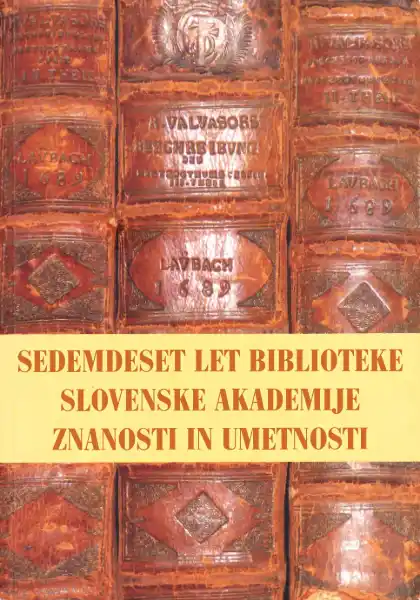
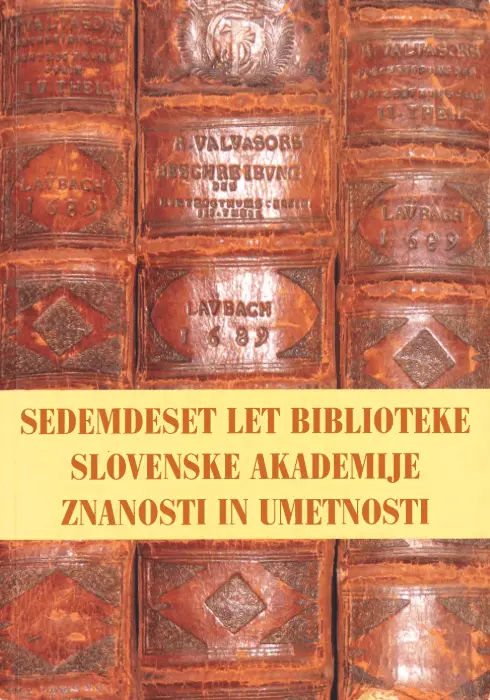
Jpg to webp - biblioteka

diff --git a/index.html b/index.html
@@ -1790,7 +1790,7 @@
                     <a href="https://dirros.openscience.si/IzpisGradiva.php?id=33147" class="book-link" target="_blank"
                         rel="noopener">
                         <div class="book-icon">
-                            <img src="images/biblioteka/biblioteka1.jpg"
+                            <img src="images/biblioteka/biblioteka1.webp"
                                 alt="Naslovnica knjige Biblioteka in publikacije SAZU 1938-1951">
                         </div>
                         <div class="book-content">
@@ -1823,7 +1823,7 @@
                     <a href="https://dirros.openscience.si/IzpisGradiva.php?id=33153" class="book-link" target="_blank"
                         rel="noopener">
                         <div class="book-icon">
-                            <img src="images/biblioteka/biblioteka2.jpg"
+                            <img src="images/biblioteka/biblioteka2.webp"
                                 alt="Naslovnica knjige Slovenska bibliografija 1945-1950">
                         </div>
                         <div class="book-content">
@@ -1855,7 +1855,7 @@
                     <a href="https://dirros.openscience.si/IzpisGradiva.php?id=33149" class="book-link" target="_blank"
                         rel="noopener">
                         <div class="book-icon">
-                            <img src="images/biblioteka/biblioteka3.jpg"
+                            <img src="images/biblioteka/biblioteka3.webp"
                                 alt="Naslovnica knjige Bibliografsko kazalo Ljubljanski zvon">
                         </div>
                         <div class="book-content">
@@ -1888,7 +1888,7 @@
                     <a href="https://dirros.openscience.si/IzpisGradiva.php?id=33154" class="book-link" target="_blank"
                         rel="noopener">
                         <div class="book-icon">
-                            <img src="images/biblioteka/biblioteka4.jpg"
+                            <img src="images/biblioteka/biblioteka4.webp"
                                 alt="Naslovnica knjige Bibliografsko kazalo Ljubljanski zvon">
                         </div>
                         <div class="book-content">
@@ -1921,7 +1921,7 @@
                     <a href="https://dirros.openscience.si/IzpisGradiva.php?id=33157" class="book-link" target="_blank"
                         rel="noopener">
                         <div class="book-icon">
-                            <img src="images/biblioteka/biblioteka6.jpg"
+                            <img src="images/biblioteka/biblioteka6.webp"
                                 alt="Naslovnica knjige Bibliografija prekmurskih tiskov">
                         </div>
                         <div class="book-content">
@@ -1954,7 +1954,7 @@
                     <a href="https://dirros.openscience.si/IzpisGradiva.php?id=33158" class="book-link" target="_blank"
                         rel="noopener">
                         <div class="book-icon">
-                            <img src="images/biblioteka/biblioteka7.jpg"
+                            <img src="images/biblioteka/biblioteka7.webp"
                                 alt="Naslovnica knjige Bibliografija publikacij SAZU 1972-1980">
                         </div>
                         <div class="book-content">
@@ -1987,7 +1987,7 @@
                     <a href="https://dirros.openscience.si/IzpisGradiva.php?id=33159" class="book-link" target="_blank"
                         rel="noopener">
                         <div class="book-icon">
-                            <img src="images/biblioteka/biblioteka8.jpg"
+                            <img src="images/biblioteka/biblioteka8.webp"
                                 alt="Naslovnica knjige Bibliografije članov, 4. razred">
                         </div>
                         <div class="book-content">
@@ -2020,7 +2020,7 @@
                     <a href="https://dirros.openscience.si/IzpisGradiva.php?id=33160" class="book-link" target="_blank"
                         rel="noopener">
                         <div class="book-icon">
-                            <img src="images/biblioteka/biblioteka9.jpg"
+                            <img src="images/biblioteka/biblioteka9.webp"
                                 alt="Naslovnica knjige Bibliografije članov, 6. razred">
                         </div>
                         <div class="book-content">
@@ -2053,7 +2053,7 @@
                     <a href="https://dirros.openscience.si/IzpisGradiva.php?id=33162" class="book-link" target="_blank"
                         rel="noopener">
                         <div class="book-icon">
-                            <img src="images/biblioteka/biblioteka11.jpg"
+                            <img src="images/biblioteka/biblioteka11.webp"
                                 alt="Naslovnica knjige Bibliografije članov, III. razred">
                         </div>
                         <div class="book-content">
@@ -2087,7 +2087,7 @@
                     <a href="https://dirros.openscience.si/IzpisGradiva.php?id=33163" class="book-link" target="_blank"
                         rel="noopener">
                         <div class="book-icon">
-                            <img src="images/biblioteka/biblioteka12.jpg"
+                            <img src="images/biblioteka/biblioteka12.webp"
                                 alt="Naslovnica knjige Bibliografija publikacij SAZU in ZRC 1981-1990">
                         </div>
                         <div class="book-content">
@@ -2119,7 +2119,7 @@
                     <a href="https://omp.sazu.si/library/catalog/book/41" class="book-link" target="_blank"
                         rel="noopener">
                         <div class="book-icon">
-                            <img src="images/Splosno/limits.webp" alt="Naslovnica knjige Limits of Growth">
+                            <img src="images/Splosno/limits.jpg" alt="Naslovnica knjige Limits of Growth">
                         </div>
                         <div class="book-content">
                             <p class="book-series">
@@ -2149,7 +2149,7 @@
                     <a href="https://omp.sazu.si/library/catalog/book/33" class="book-link" target="_blank"
                         rel="noopener">
                         <div class="book-icon">
-                            <img src="images/biblioteka/biblioteka15.jpg"
+                            <img src="images/biblioteka/biblioteka15.webp"
                                 alt="Naslovnica knjige Ljubljana kot novi Rim">
                         </div>
                         <div class="book-content">
@@ -2183,7 +2183,7 @@
                     <a href="https://omp.sazu.si/library/catalog/book/39" class="book-link" target="_blank"
                         rel="noopener">
                         <div class="book-icon">
-                            <img src="images/biblioteka/biblioteka16.jpg"
+                            <img src="images/biblioteka/biblioteka16.webp"
                                 alt="Naslovnica knjige Bibliografija publikacij SAZU 1991-2015">
                         </div>
                         <div class="book-content">
@@ -2215,7 +2215,7 @@
                     <a href="https://omp.sazu.si/library/catalog/book/35" class="book-link" target="_blank"
                         rel="noopener">
                         <div class="book-icon">
-                            <img src="images/biblioteka/biblioteka17.jpg" alt="Rokopisi in fragmenti Arhiv RS">
+                            <img src="images/biblioteka/biblioteka17.webp" alt="Rokopisi in fragmenti Arhiv RS">
                         </div>
                         <div class="book-content">
                             <p class="book-series">
@@ -2246,7 +2246,7 @@
                     <a href="https://omp.sazu.si/library/catalog/book/36" class="book-link" target="_blank"
                         rel="noopener">
                         <div class="book-icon">
-                            <img src="images/biblioteka/biblioteka18.jpg" alt="naslovnica Alfabetarij k Tezavru">
+                            <img src="images/biblioteka/biblioteka18.webp" alt="naslovnica Alfabetarij k Tezavru">
                         </div>
                         <div class="book-content">
                             <p class="book-series">
@@ -2278,7 +2278,7 @@
                     <a href="https://omp.sazu.si/library/catalog/book/40" class="book-link" target="_blank"
                         rel="noopener">
                         <div class="book-icon">
-                            <img src="images/biblioteka/biblioteka19.jpg" alt="naslovnica Bibliografija Balantič">
+                            <img src="images/biblioteka/biblioteka19.webp" alt="naslovnica Bibliografija Balantič">
                         </div>
                         <div class="book-content">
                             <p class="book-series">
@@ -2374,7 +2374,7 @@
                     <a href=" https://dirros.openscience.si/IzpisGradiva.php?id=33155 " class="book-link"
                         target="_blank" rel="noopener">
                         <div class="book-icon">
-                            <img src="images/biblioteka/biblioteka5.jpg" alt="naslovnica Biografije 1976">
+                            <img src="images/biblioteka/biblioteka5.webp" alt="naslovnica Biografije 1976">
                         </div>
                         <div class="book-content">
                             <p class="book-series">
@@ -2405,7 +2405,7 @@
                     <a href=" https://dirros.openscience.si/IzpisGradiva.php?id=33611" class="book-link" target="_blank"
                         rel="noopener">
                         <div class="book-icon">
-                            <img src="images/biblioteka/biblioteka10.jpg" alt="naslovnica Biografije 1976">
+                            <img src="images/biblioteka/biblioteka10.webp" alt="naslovnica Biografije 1976">
                         </div>
                         <div class="book-content">
                             <p class="book-series">

diff --git a/style.css b/style.css
@@ -781,11 +781,10 @@ BOOK COVER
 
     image-rendering: auto;
 
-    -webkit-transform: none;
     transform: none;
-
     filter: none;
-
+    backface-visibility: visible;
+    will-change: auto;
 }
 
 
